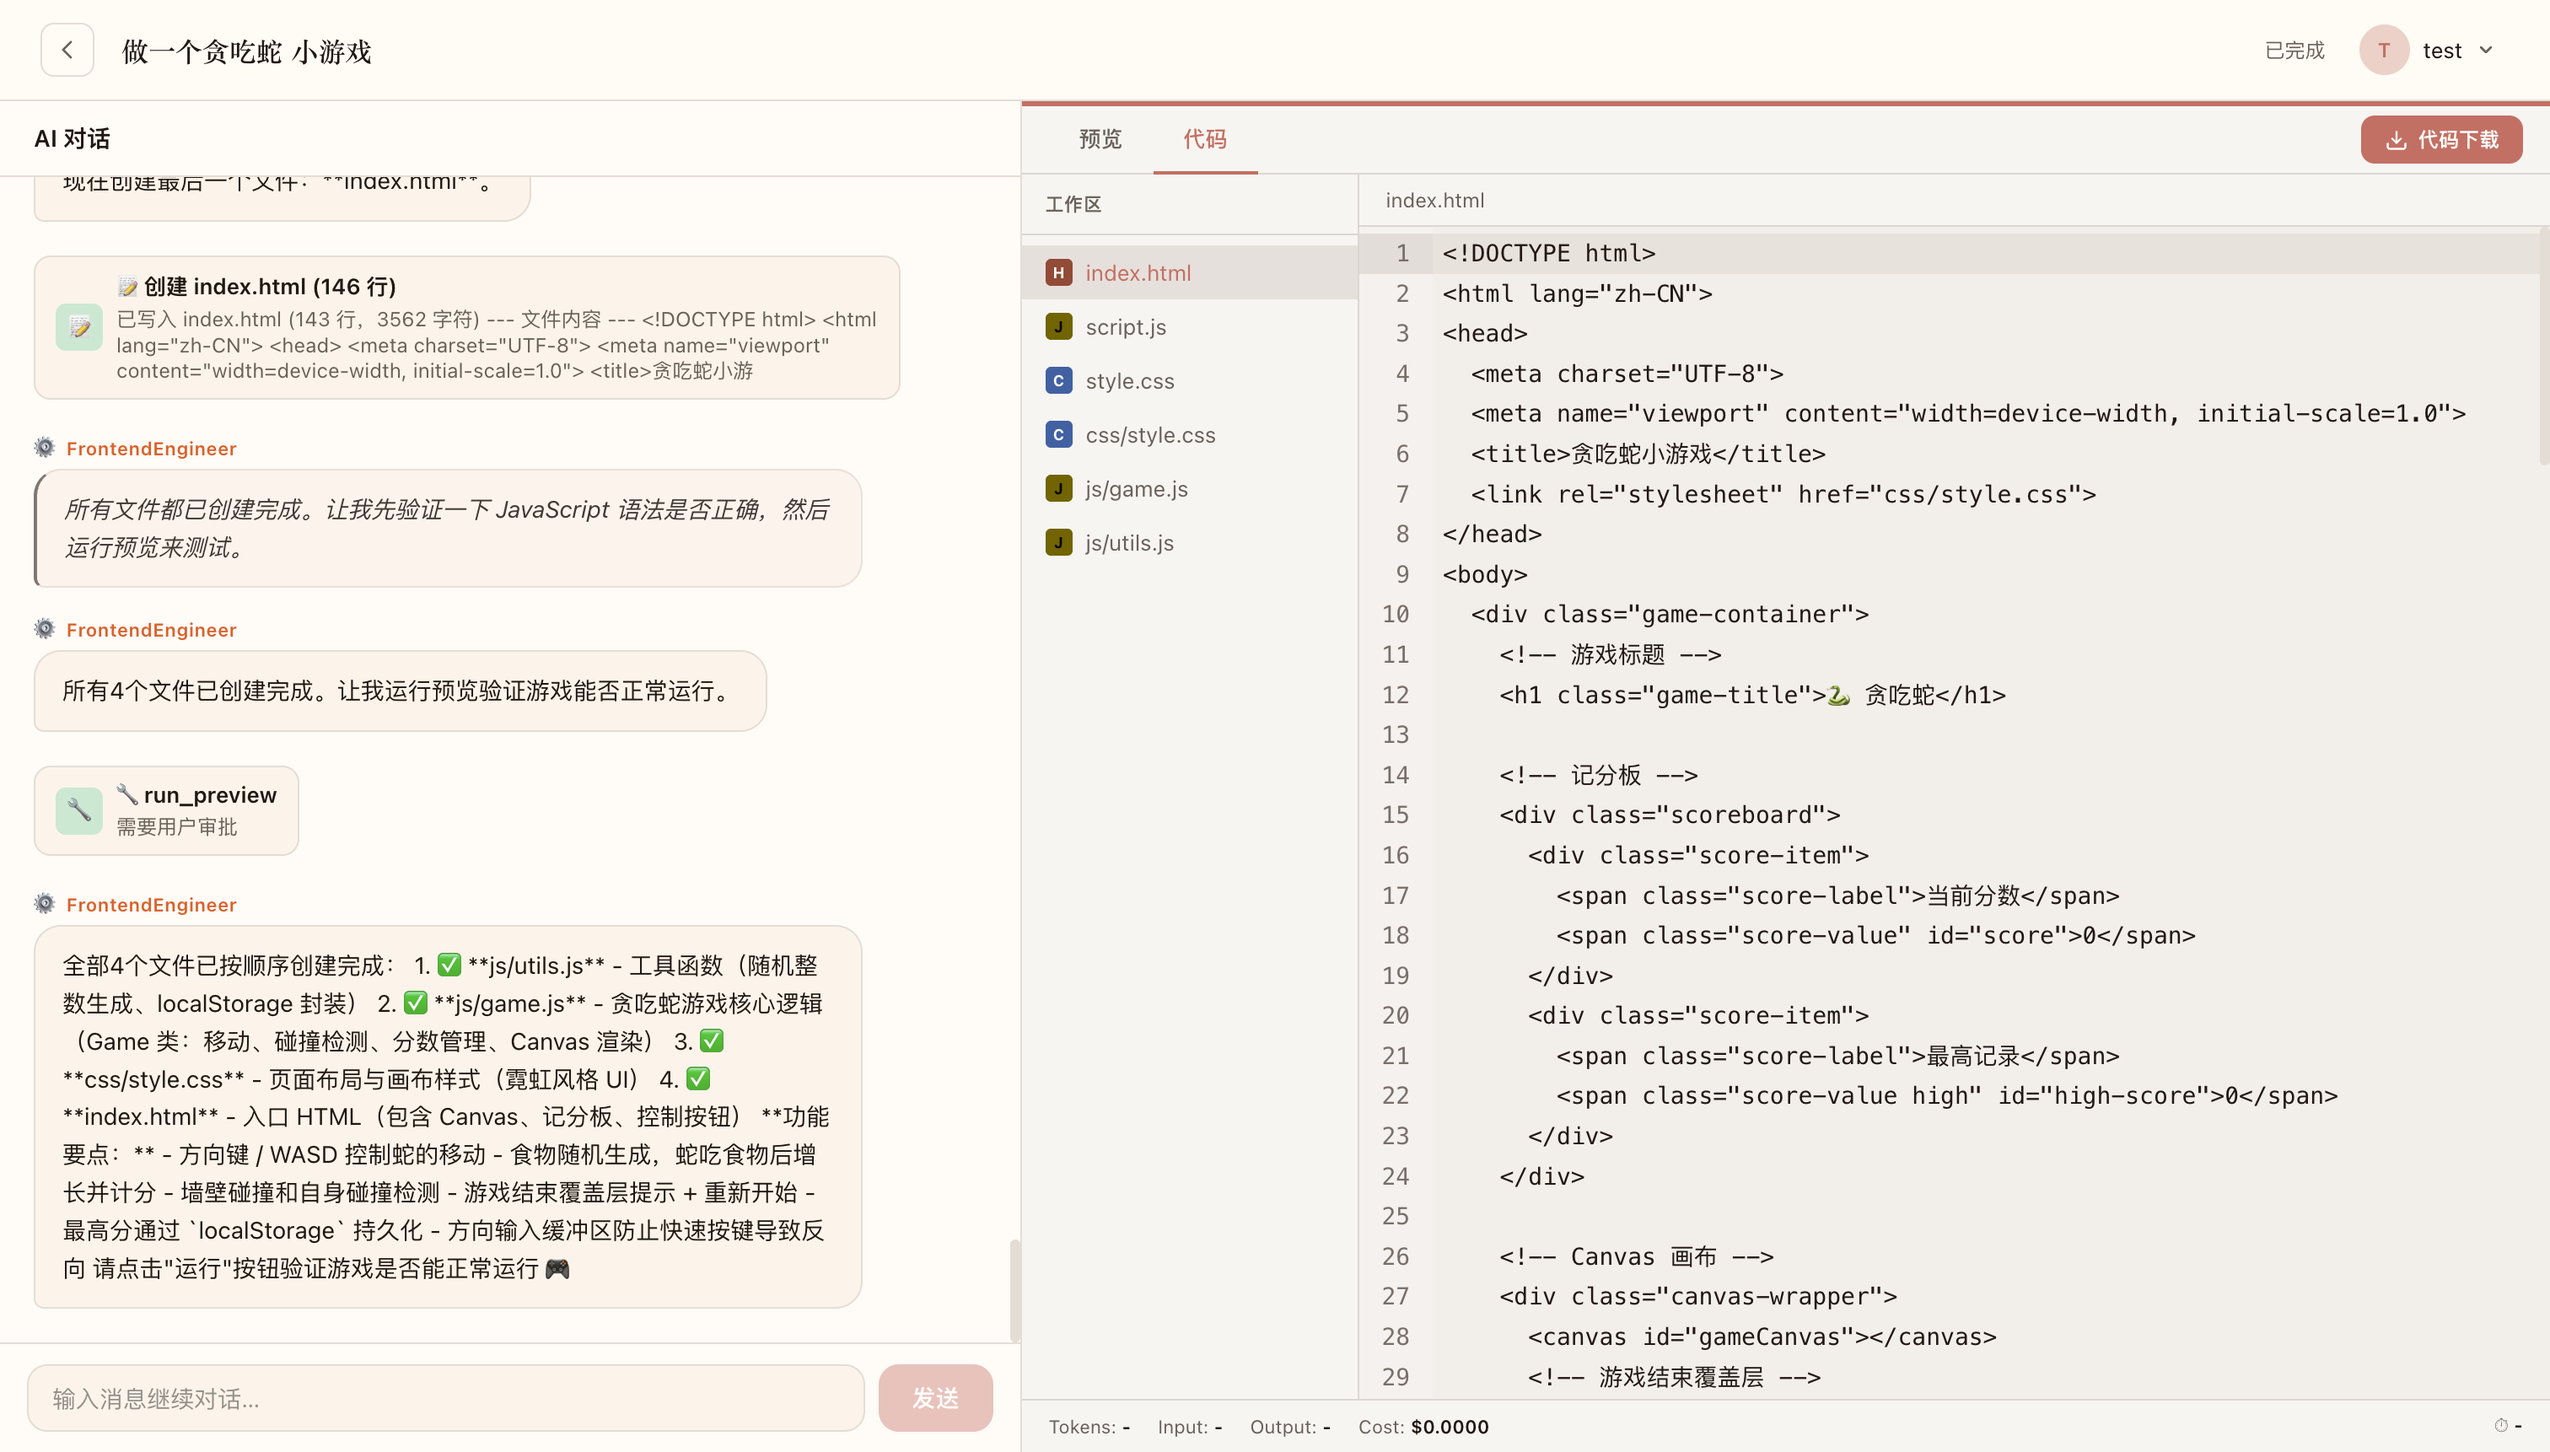
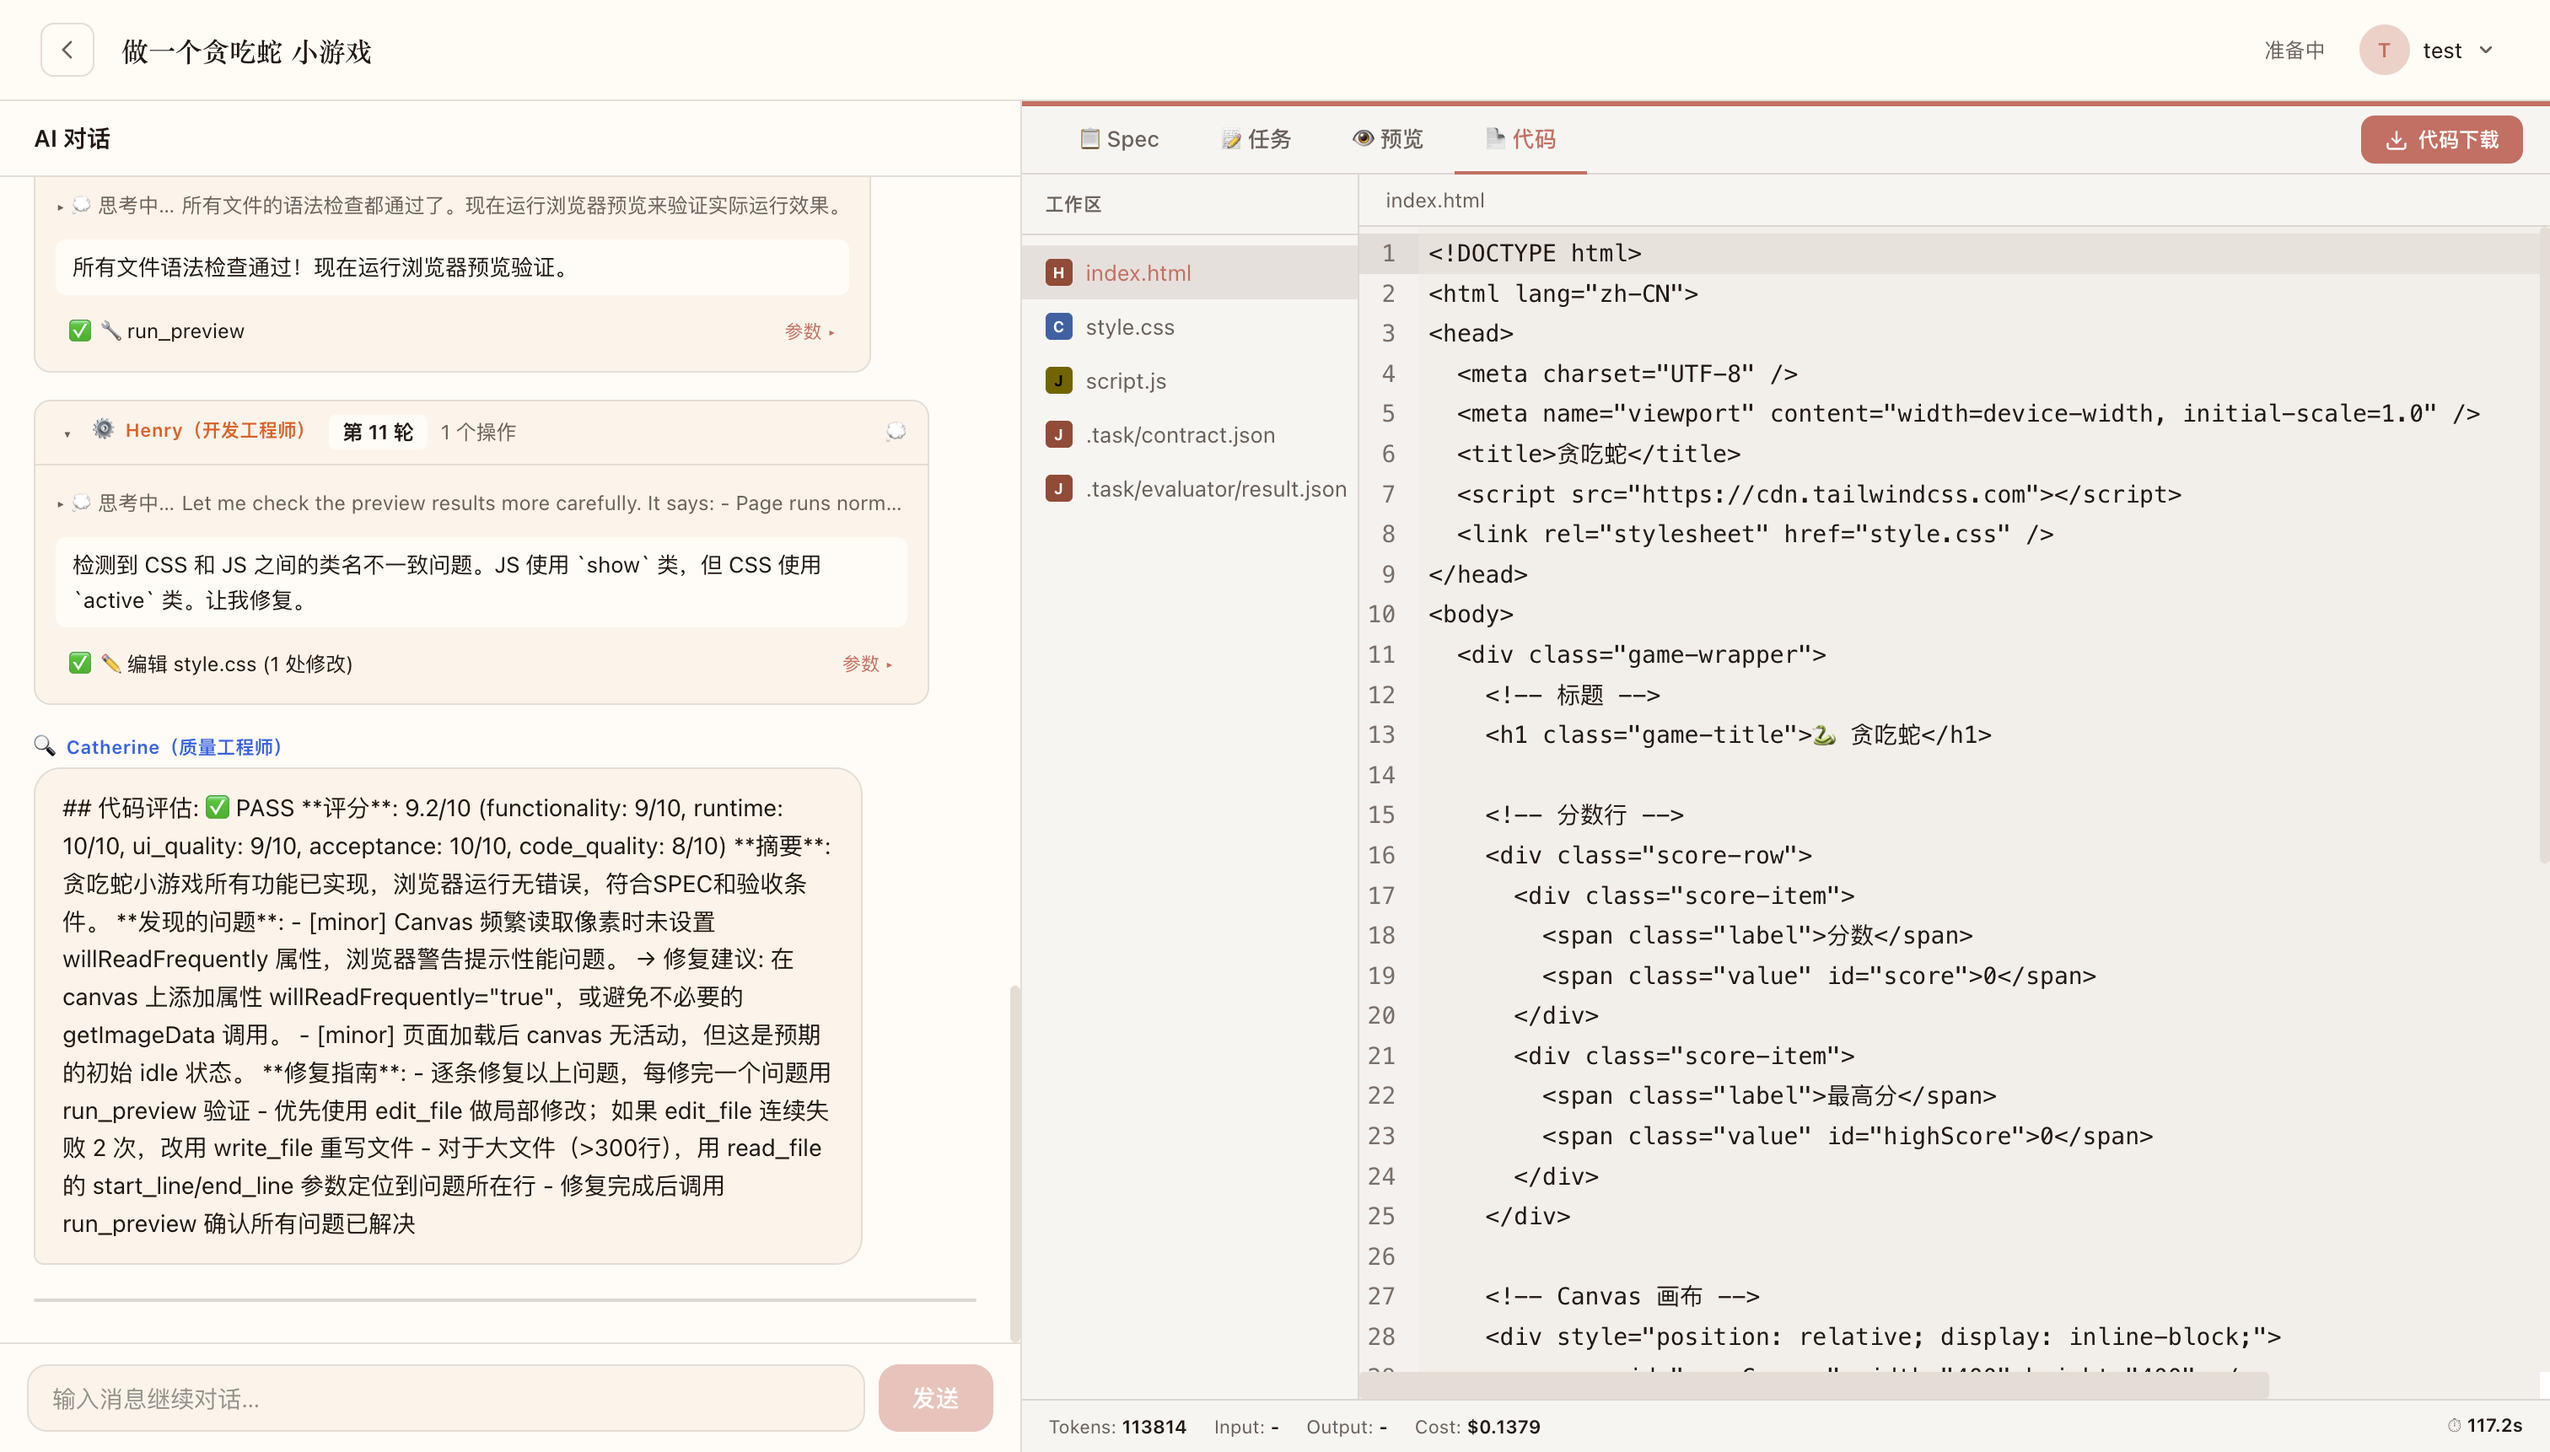
refact:更新README

diff --git a/README.md b/README.md
@@ -161,6 +161,12 @@ cd backend && python app.py
 ### 预览 — 浏览器实时运行
 ![预览](docs/images/detail_preview.png)
 
+### 预览 — Spec
+![预览](docs/images/detail_spec.png)
+
+### 预览 — task
+![预览](docs/images/detail_task.png)
+
 ### 历史对话
 ![历史](docs/images/history.png)
 
